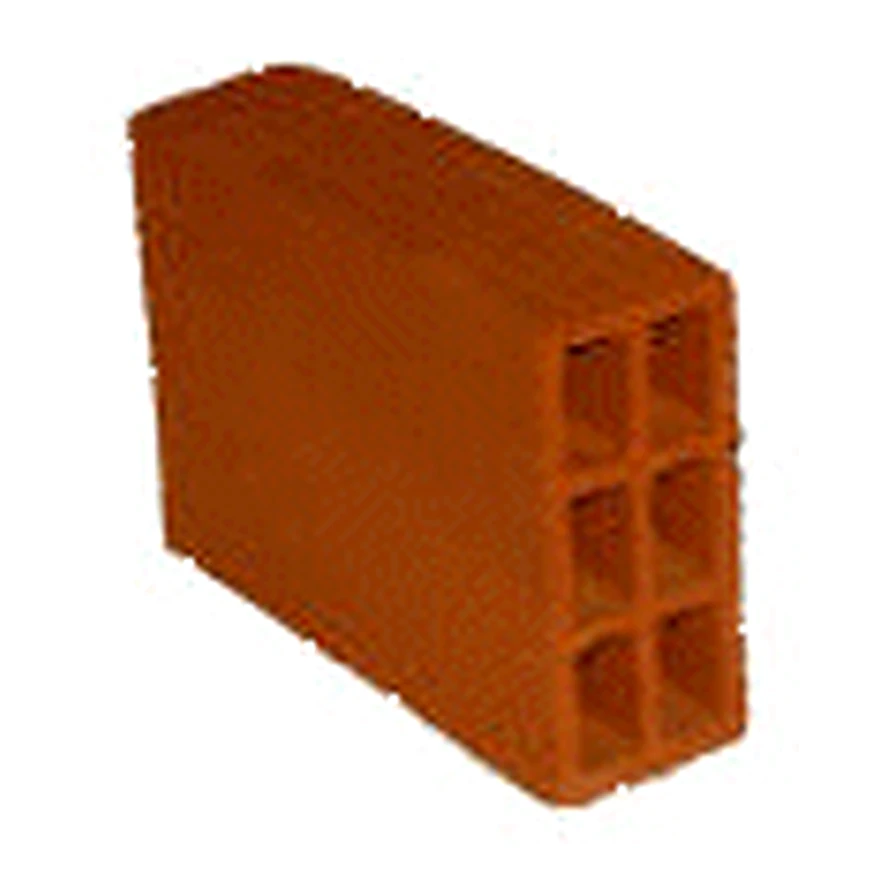
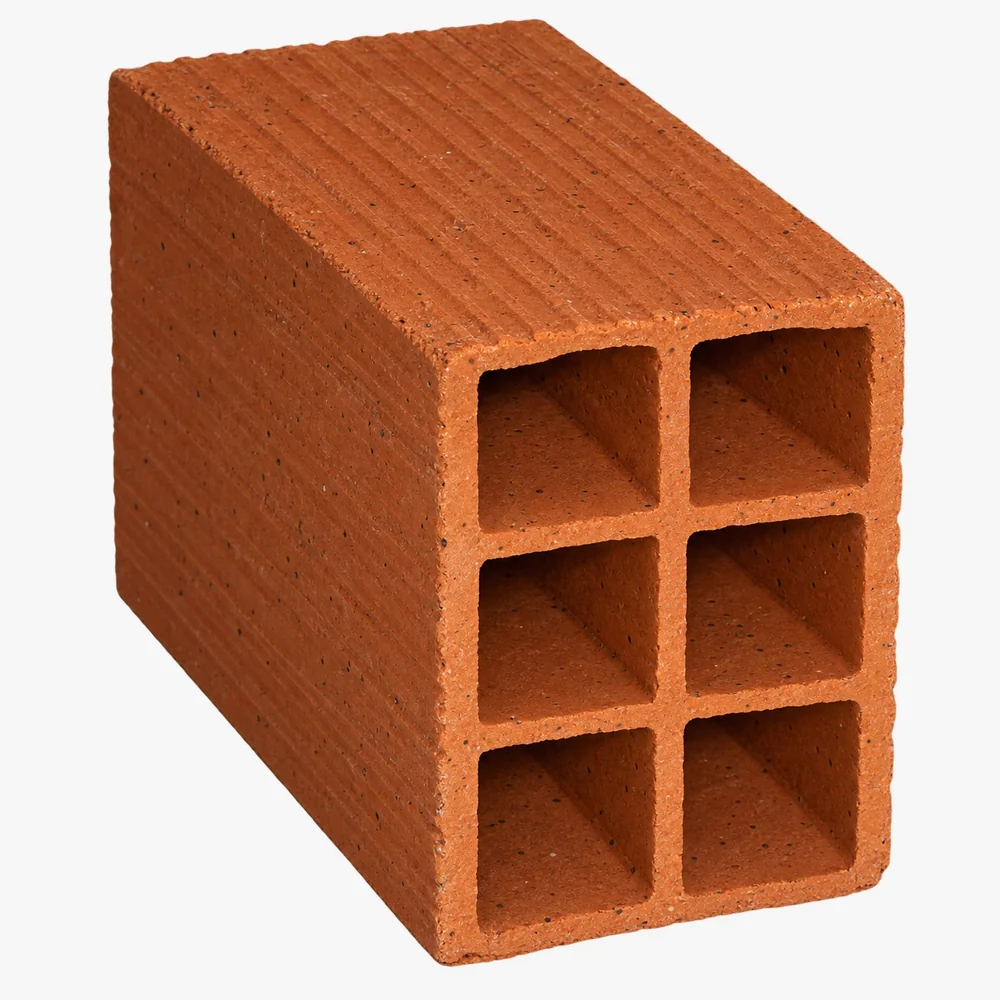
Fotos de alta calidad del catalogo y correccion del comun
Fotos
- 9 imagenes nuevas (1254px, ya upscaladas), procesadas a WebP 1000px:
  hueco 12x18x24, portante 12, liviano, visto, rejilla, encadenado,
  2tubos, artistico y losa sapo.
- 8x18x24 Comun queda con el vector SVG: la foto que tenia era en
  realidad el visto, no el comun, y no hay foto propia del comun.
- Saque tambien las fotos pixeladas del upscale del Word de los tres
  modelos de 18 cm: se veian peor que la ilustracion vectorial.
-(imageAlt actualizado en cada ficha con la foto nueva.

diff --git a/src/data/products.ts b/src/data/products.ts
@@ -80,7 +80,6 @@ export const products: Product[] = [
     resistance: null,
     thermalConductivity: null,
     recommendedUse: 'Muros portantes, encadenados, edificios.',
-    imageAlt: 'Ladrillo portante de 12x18x24 cm, con seis huecos rectangulares',
     featured: true,
     pdfUrl: null,
   },
@@ -121,7 +120,6 @@ export const products: Product[] = [
     resistance: null,
     thermalConductivity: null,
     recommendedUse: 'Cerramientos exteriores, tabiques gruesos.',
-    imageAlt: 'Ladrillo liviano de 18x18x24 cm, seis huecos circulares',
     featured: false,
     pdfUrl: null,
   },
@@ -163,7 +161,6 @@ export const products: Product[] = [
     resistance: null,
     thermalConductivity: null,
     recommendedUse: 'Cerramientos exteriores e interiores.',
-    imageAlt: 'Ladrillo común de 8x18x24 cm, seis huecos rectangulares en la cara',
     featured: true,
     pdfUrl: null,
   },
@@ -184,7 +181,6 @@ export const products: Product[] = [
     resistance: null,
     thermalConductivity: null,
     recommendedUse: 'Cerramientos, muros en general.',
-    imageAlt: 'Ladrillo cerámico hueco de 18x18x24 cm, con seis huecos rectangulares en la cara',
     featured: false,
     pdfUrl: null,
   },
@@ -205,9 +201,8 @@ export const products: Product[] = [
     resistance: null,
     thermalConductivity: null,
     recommendedUse: 'Muros vistos, cercos, terminaciones.',
-    imageAlt: 'Ladrillo visto de 12x18x24 cm apoyado sobre una barra de metal',
+    imageAlt: 'Ladrillo visto de 12x18x24 cm, cara estriada y seis huecos',
     featured: false,
-    image: '/images/productos/12x18x24-visto.webp',
     pdfUrl: null,
   },
   {
